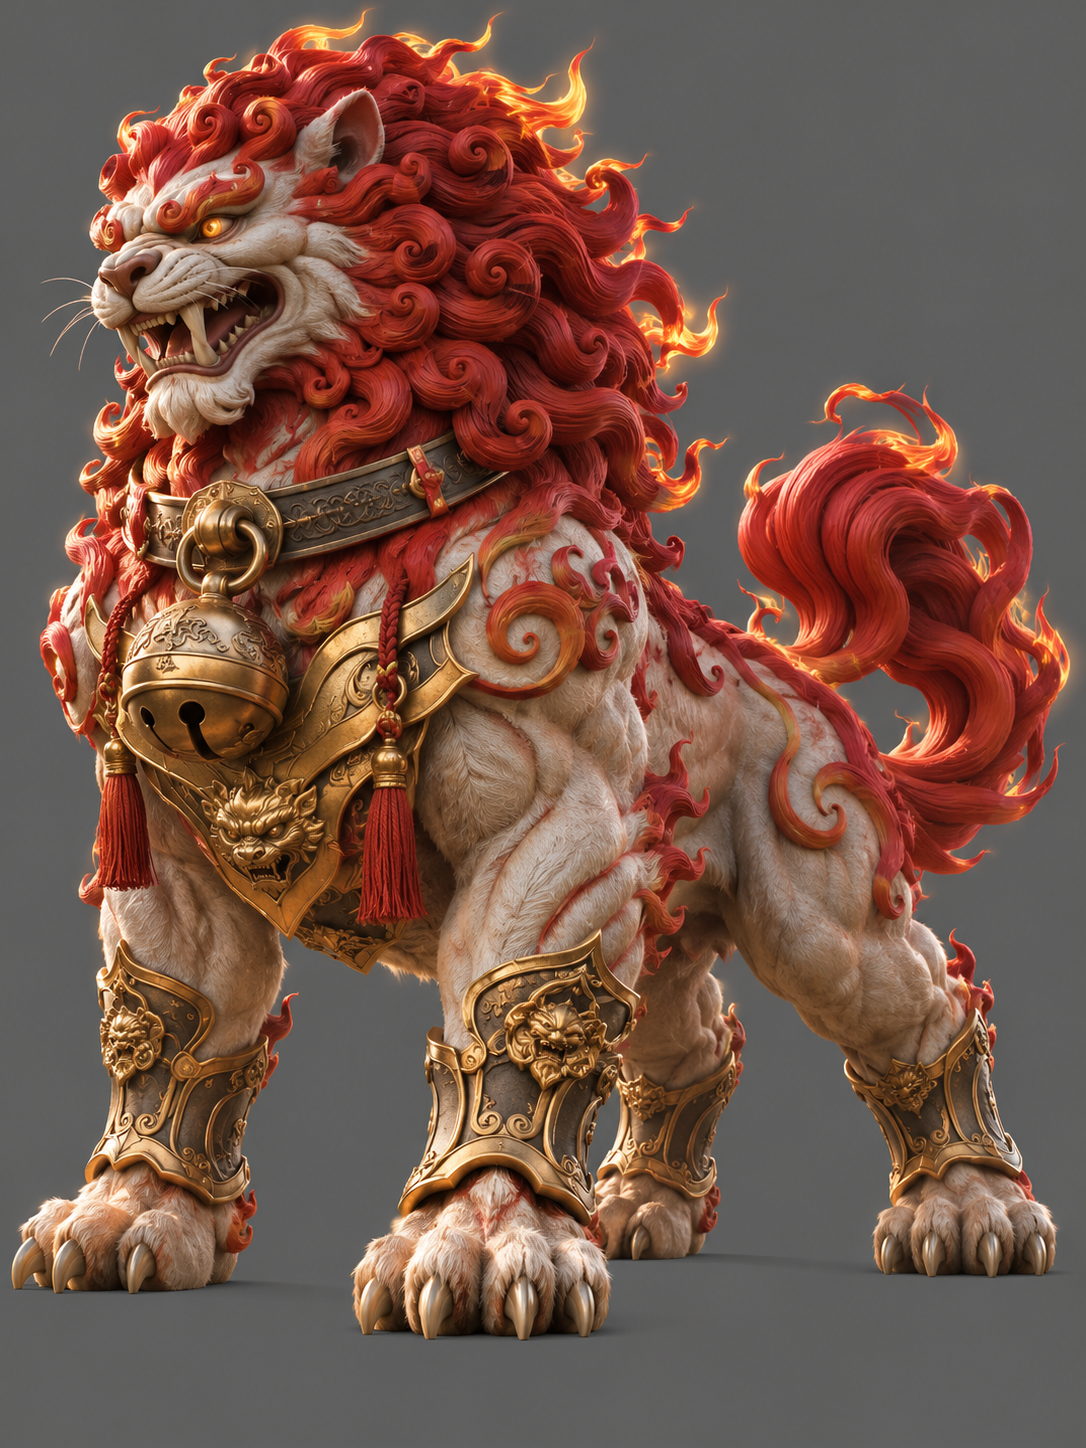
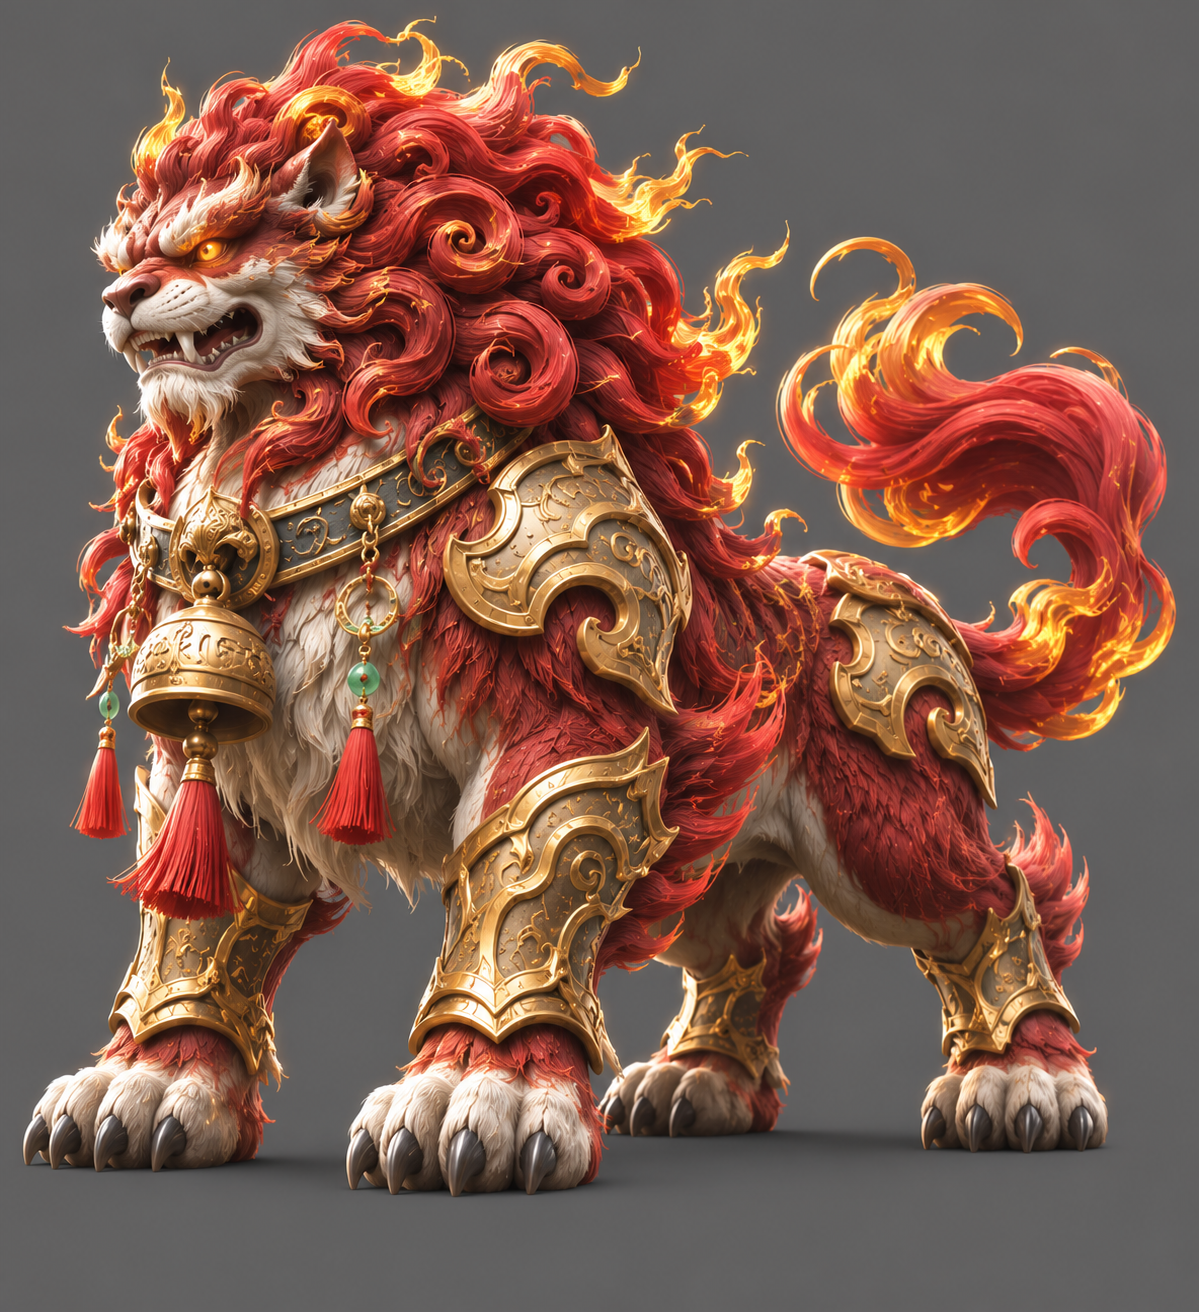
Try-out: the Vermilion Warden's newer painting
Claude-Session: https://claude.ai/code/session_01LS9mE4p1eE4rKWUq3Pq8eE

diff --git a/src/world.ts b/src/world.ts
@@ -335,7 +335,7 @@ const PAINTED: Record<string, [string, number, number, number?]> = {
   lanternwisp: [lanternlord, 749 / 1100, 2.2, 0.7],
   inkmonkey: [scrollsage, 742 / 1100, 2.6],
   bellmoth: [bellqueen, 933 / 1100, 2.5, 0.6],
-  warden: [wardenArt, 876 / 1100, 3],
+  warden: [wardenArt, 1074 / 1100, 3],
 };
 const BINDER_ART: [string, number] =
   typeof location !== "undefined" && new URLSearchParams(location.search).get("binder") === "m"
